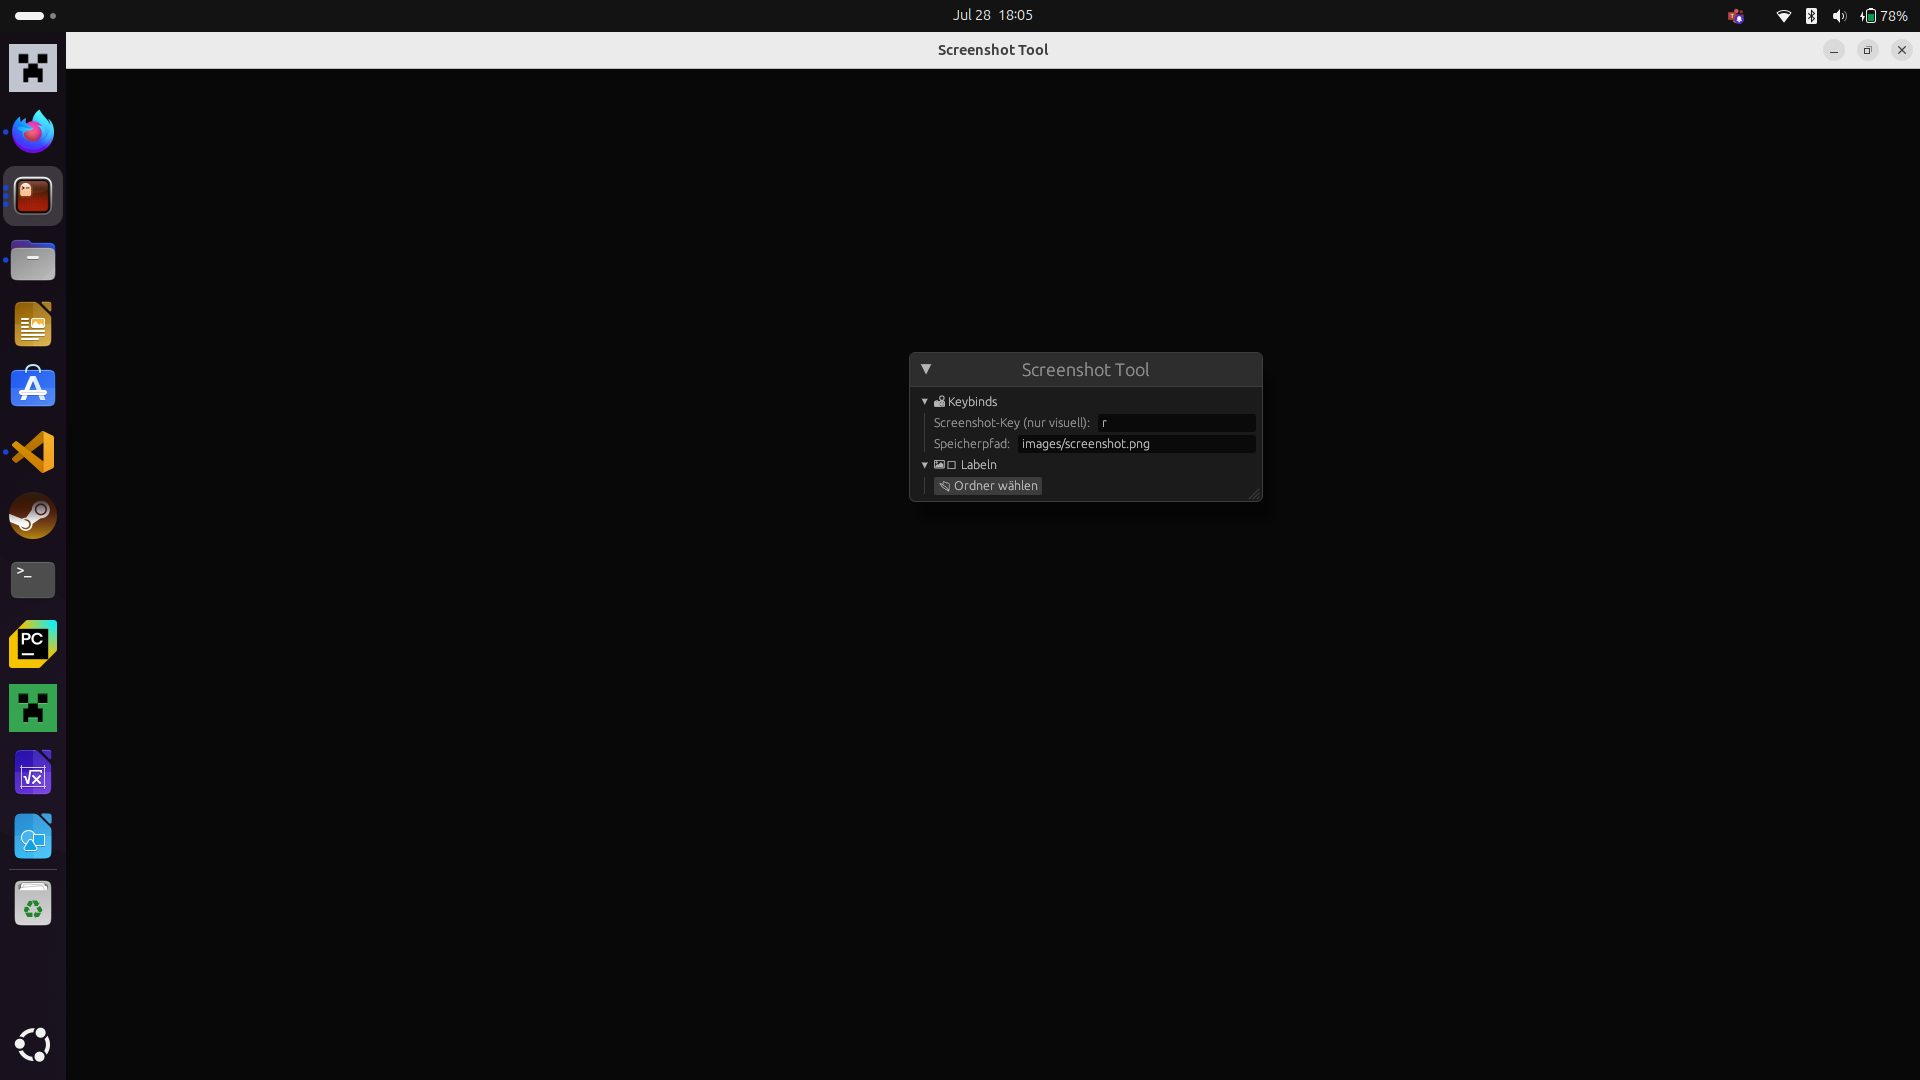
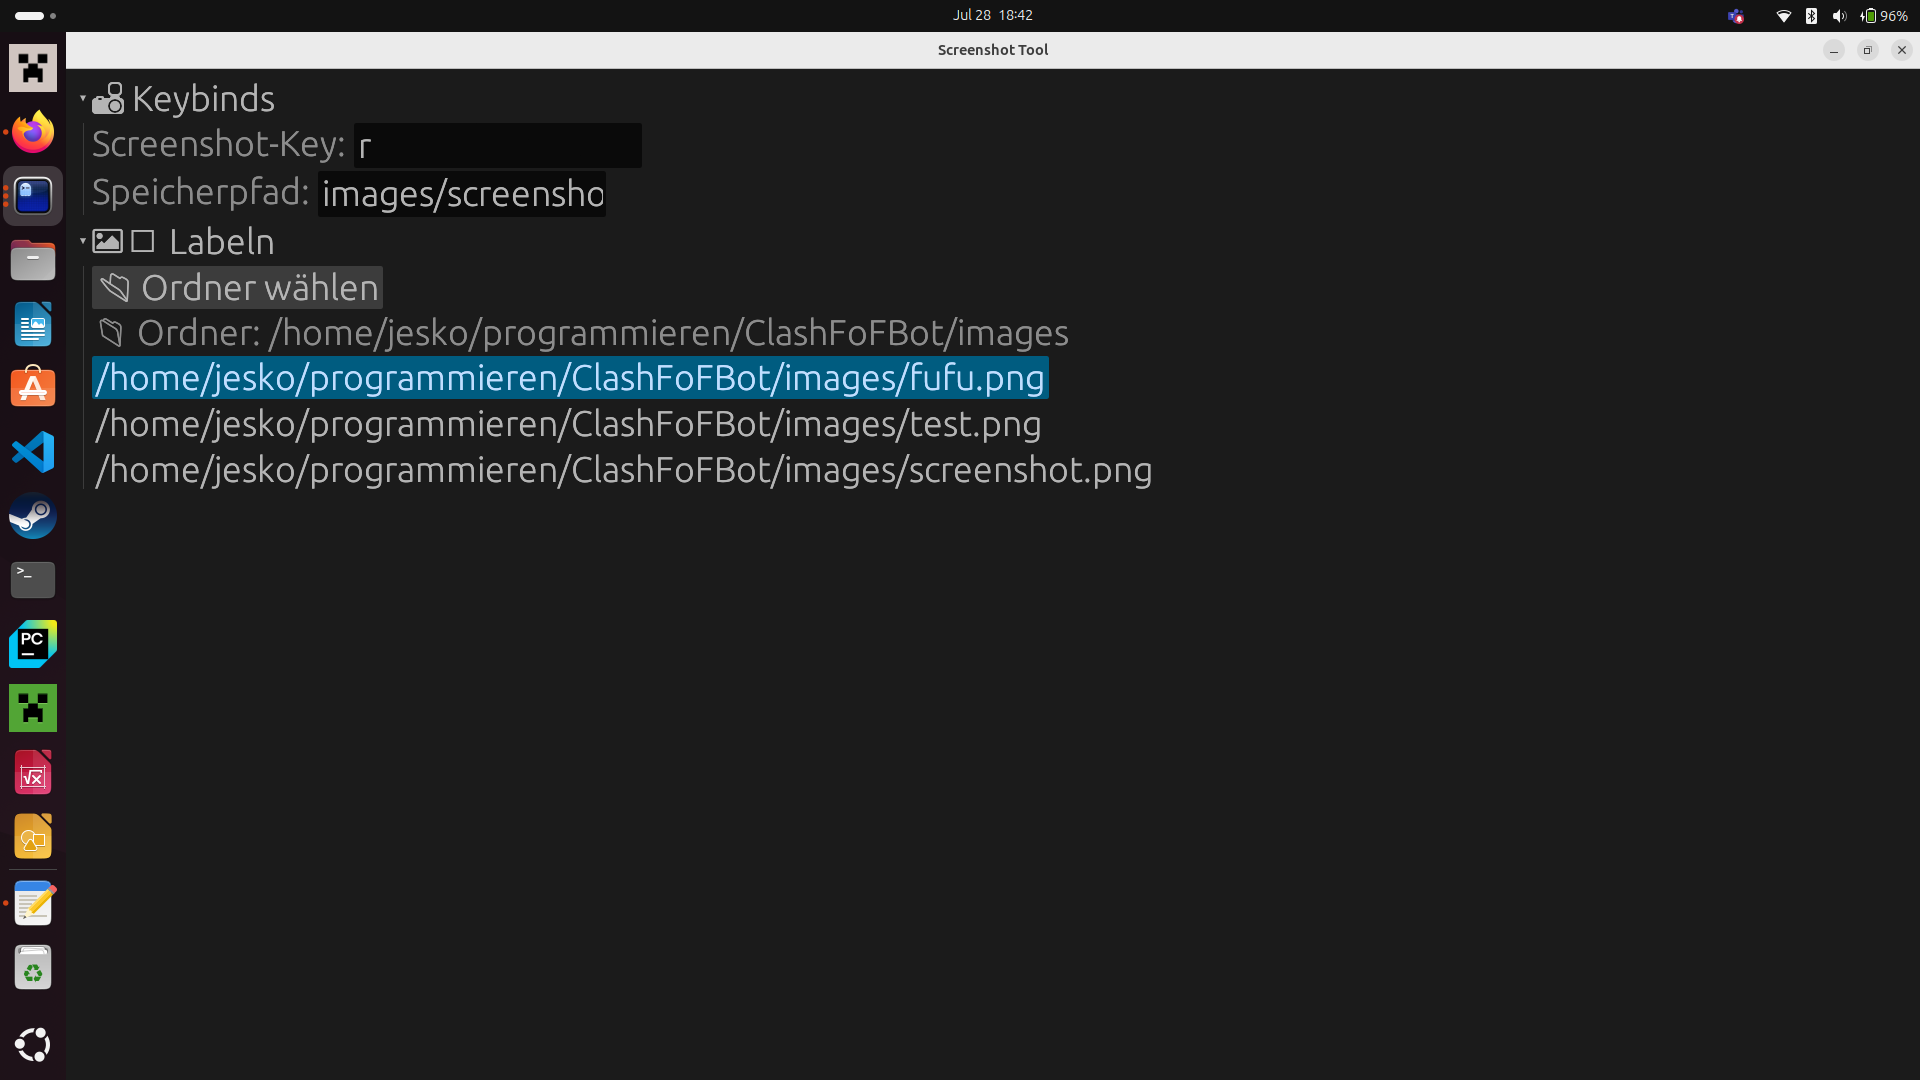
ui

diff --git a/src/ui.rs b/src/ui.rs
@@ -19,14 +19,25 @@ fn keycode_from_str(key: &str) -> Option<Keycode> {
     )
 }
 
-use crate::screenshot;
-
 pub struct ScreenshotApp {
     pub screenshot_path: String,
     pub keybind: String,
     pub selected_image: Option<String>,
     pub image_folder: Option<PathBuf>,
     pub available_images: Vec<String>,
+
+    // Neu:
+    image_texture: Option<egui::TextureHandle>,
+    labeled_rects: Vec<LabeledRect>,
+    current_rect_start: Option<egui::Pos2>,
+    current_rect_end: Option<egui::Pos2>,
+    current_label: String,
+}
+
+#[derive(Clone)]
+struct LabeledRect {
+    rect: egui::Rect,
+    label: String,
 }
 
 impl Default for ScreenshotApp {
@@ -37,6 +48,11 @@ impl Default for ScreenshotApp {
             selected_image: None,
             image_folder: None,
             available_images: vec![],
+            image_texture: None,
+            current_label: "".to_string(),
+            current_rect_end: None,
+            current_rect_start: None,
+            labeled_rects: vec![],
         }
     }
 }
@@ -112,8 +128,9 @@ impl eframe::App for ScreenshotApp {
                     .contains(&keycode_from_str(&self.keybind).unwrap_or(Keycode::V))
                 {
                     println!("took screenshot");
-                    let screen = screenshot::Screenshot::get_screenshot();
-                    screen.save(&Path::new(&self.screenshot_path));
+                    let img = screener::make_screenshot(0);
+                    img.save(&self.screenshot_path)
+                        .expect("error while saving img");
                 }
             });
 
